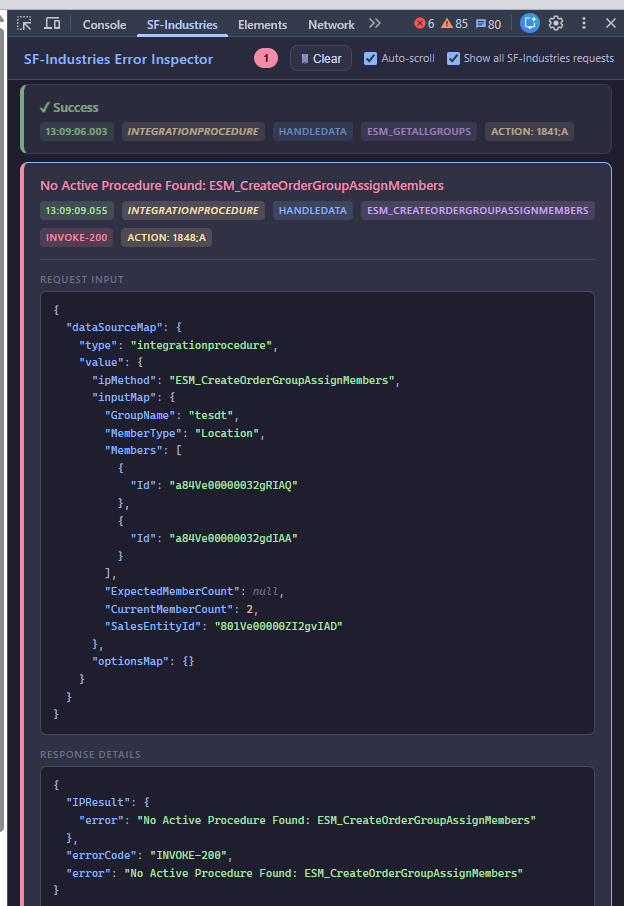
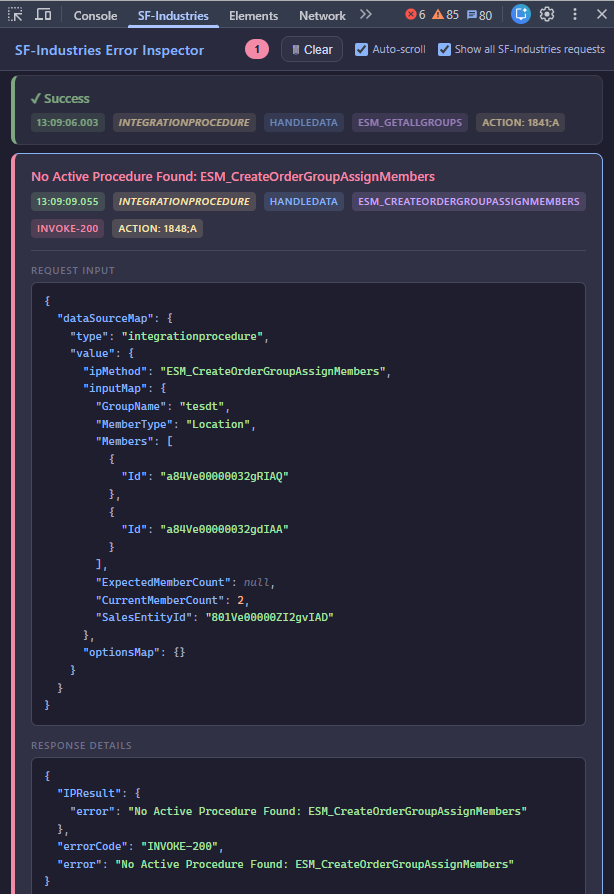
feat: monitor generic OmniStudio ApexAction invokes (GenericInvoke2NoCont)
Extends the relevance filter to include Aura actions whose decoded params
contain sClassName + sMethodName — the shape used by GenericInvoke2NoCont
and similar OmniStudio generic invokes. These previously slipped through
undetected because they carry no dataSourceMap.

Adds isGenericInvoke() helper, tags them as "apexaction", and surfaces
their procedure name as sClassName.sMethodName. Error detection and the
"error":"OK" suppression were already correct — only the filter and
display extractors needed updating.

diff --git a/panel.js b/panel.js
@@ -66,6 +66,12 @@
     });
   }
 
+  // --- Utility: Detect OmniStudio generic ApexAction invokes (GenericInvoke2/NoCont etc.) ---
+  function isGenericInvoke(params) {
+    if (!params) return false;
+    return typeof params.sClassName === "string" && typeof params.sMethodName === "string";
+  }
+
   // --- Utility: Detect errors in response ---
   function detectErrors(responseBody) {
     const errors = [];
@@ -165,6 +171,7 @@
       const ds = deepDecodeJson(params.dataSourceMap);
       if (ds?.type) return ds.type;
     }
+    if (isGenericInvoke(params)) return "apexaction";
     return null;
   }
 
@@ -192,6 +199,11 @@
     if (params.dataSourceMap?.value?.className) {
       return params.dataSourceMap.value.className;
     }
+    // OmniStudio generic invoke (GenericInvoke2NoCont etc.)
+    if (params.sClassName && params.sMethodName) {
+      return params.sClassName + "." + params.sMethodName;
+    }
+    if (params.sMethodName) return params.sMethodName;
     // OmniScript
     if (params.sClassName) return params.sClassName;
     // Generic
@@ -399,6 +411,7 @@
         const ds = deepDecodeJson(params.dataSourceMap);
         if (ds?.type) return true;
       }
+      if (isGenericInvoke(params)) return true;
       return false;
     });
     if (relevantActions.length === 0) return;

diff --git a/README.md b/README.md
@@ -19,8 +19,8 @@ This extension catches these hidden errors automatically.
 ## Features
 
 - **Auto-detects hidden errors** in SUCCESS responses (IP errors, DR errors, Apex Remote errors)
-- **Filters SF-Industries traffic only** — shows only requests with a `dataSourceMap` (IPs, DRs, Apex Remote), ignoring unrelated Aura noise
-- **Shows dataSource type** — tags each request as `integrationprocedure`, `dataraptor`, `apexremote`, etc.
+- **Filters SF-Industries traffic only** — shows requests with a `dataSourceMap` (IPs, DRs, Apex Remote) plus generic OmniStudio ApexAction invokes (e.g. `GenericInvoke2NoCont`), ignoring unrelated Aura noise
+- **Shows dataSource type** — tags each request as `integrationprocedure`, `dataraptor`, `apexremote`, `apexaction`, etc.
 - **Shows procedure/bundle name** — instantly see which IP, DR bundle, or Apex class.method failed
 - **Decodes nested JSON** — fully parses and prettifies the deeply encoded payloads
 - **Displays parsed request inputs** — see exactly what parameters were sent without manual decoding
@@ -35,7 +35,7 @@ This extension catches these hidden errors automatically.
 1. Open Chrome and navigate to `chrome://extensions/`
 2. Enable **Developer mode** (toggle in the top right)
 3. Click **Load unpacked**
-4. Select this folder: `chrome-extensions/sf-aura-error-inspector/`
+4. Select this folder: `sf-aura-error-inspector/`
 5. Open Chrome DevTools (F12) on any Salesforce org
 6. Look for the **"SF-Industries"** tab in the DevTools panel
 
@@ -66,6 +66,7 @@ This extension catches these hidden errors automatically.
 | `integrationprocedure` | IP method name (e.g., `ESM_CreateOrderGroupAssignMembers`) |
 | `dataraptor` | Bundle name (e.g., `ESMExtractOrderMemberCount`) |
 | `apexremote` | Class.method (e.g., `CpqAppHandler.getItemReverseQuantity`) |
+| `apexaction` | Class.method of a generic OmniStudio invoke (e.g., `IntegrationProcedureService.ESM_AddOMOGToWCOIsCopyToEO`) |
 
 ## Screenshot
 